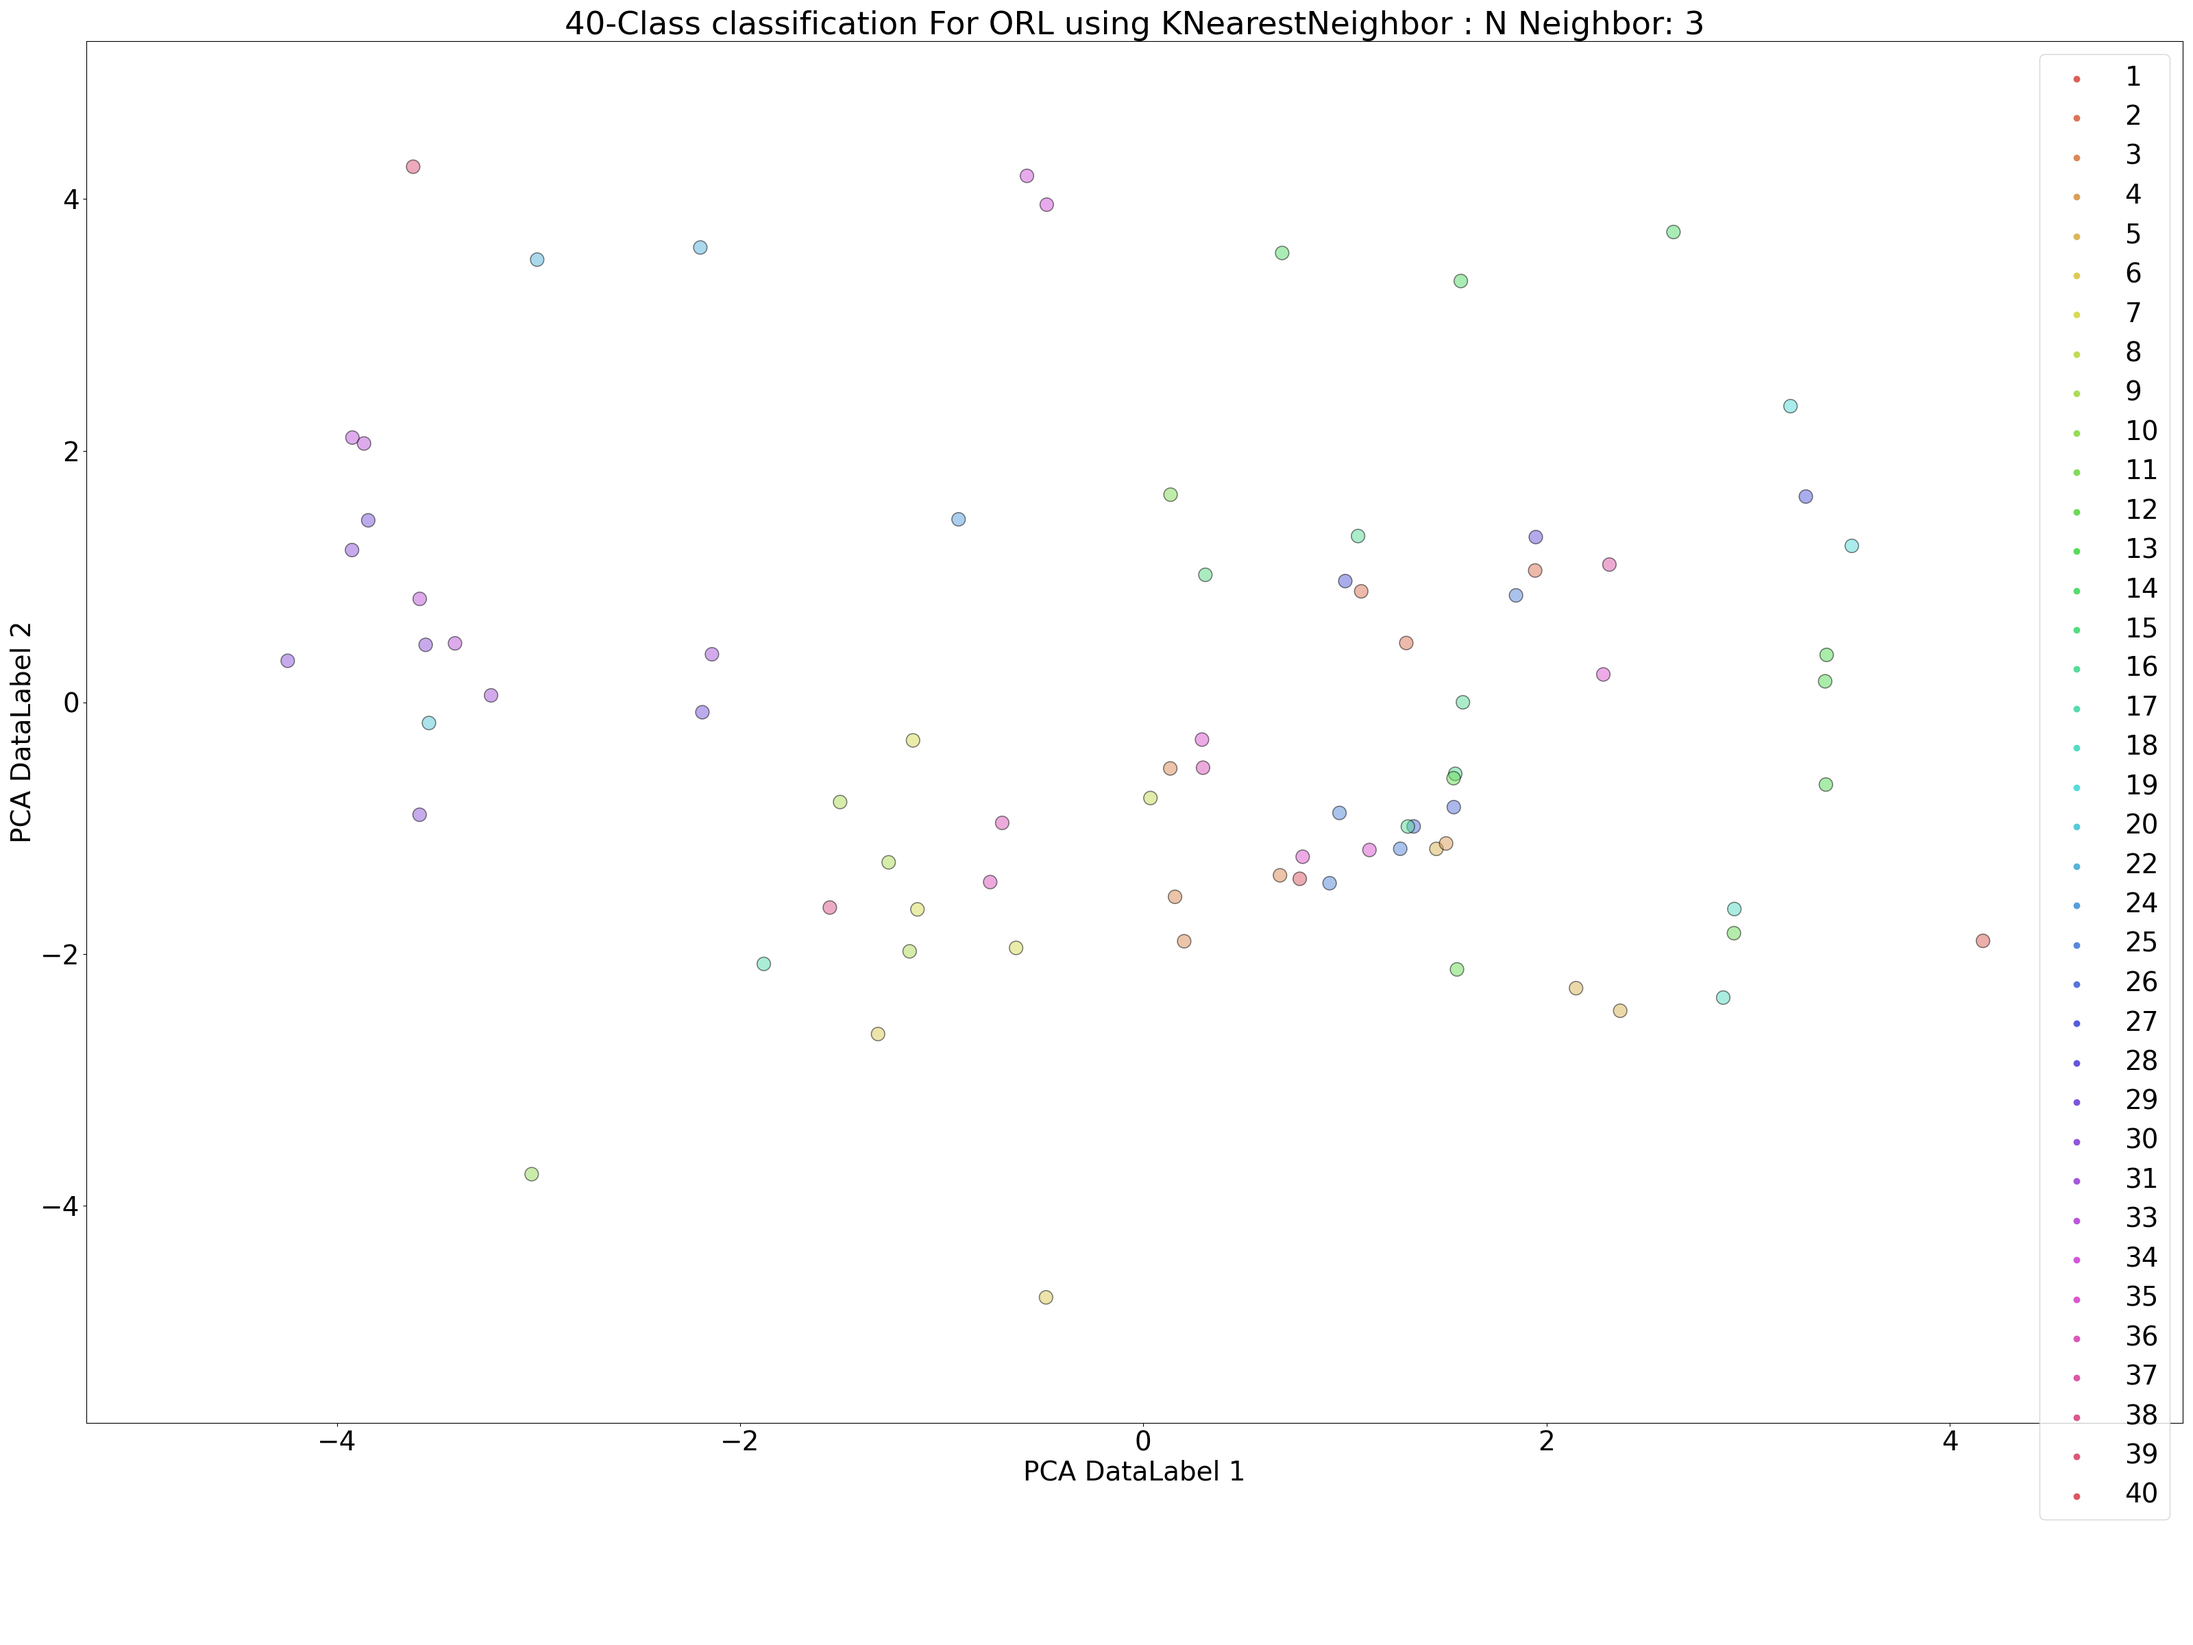
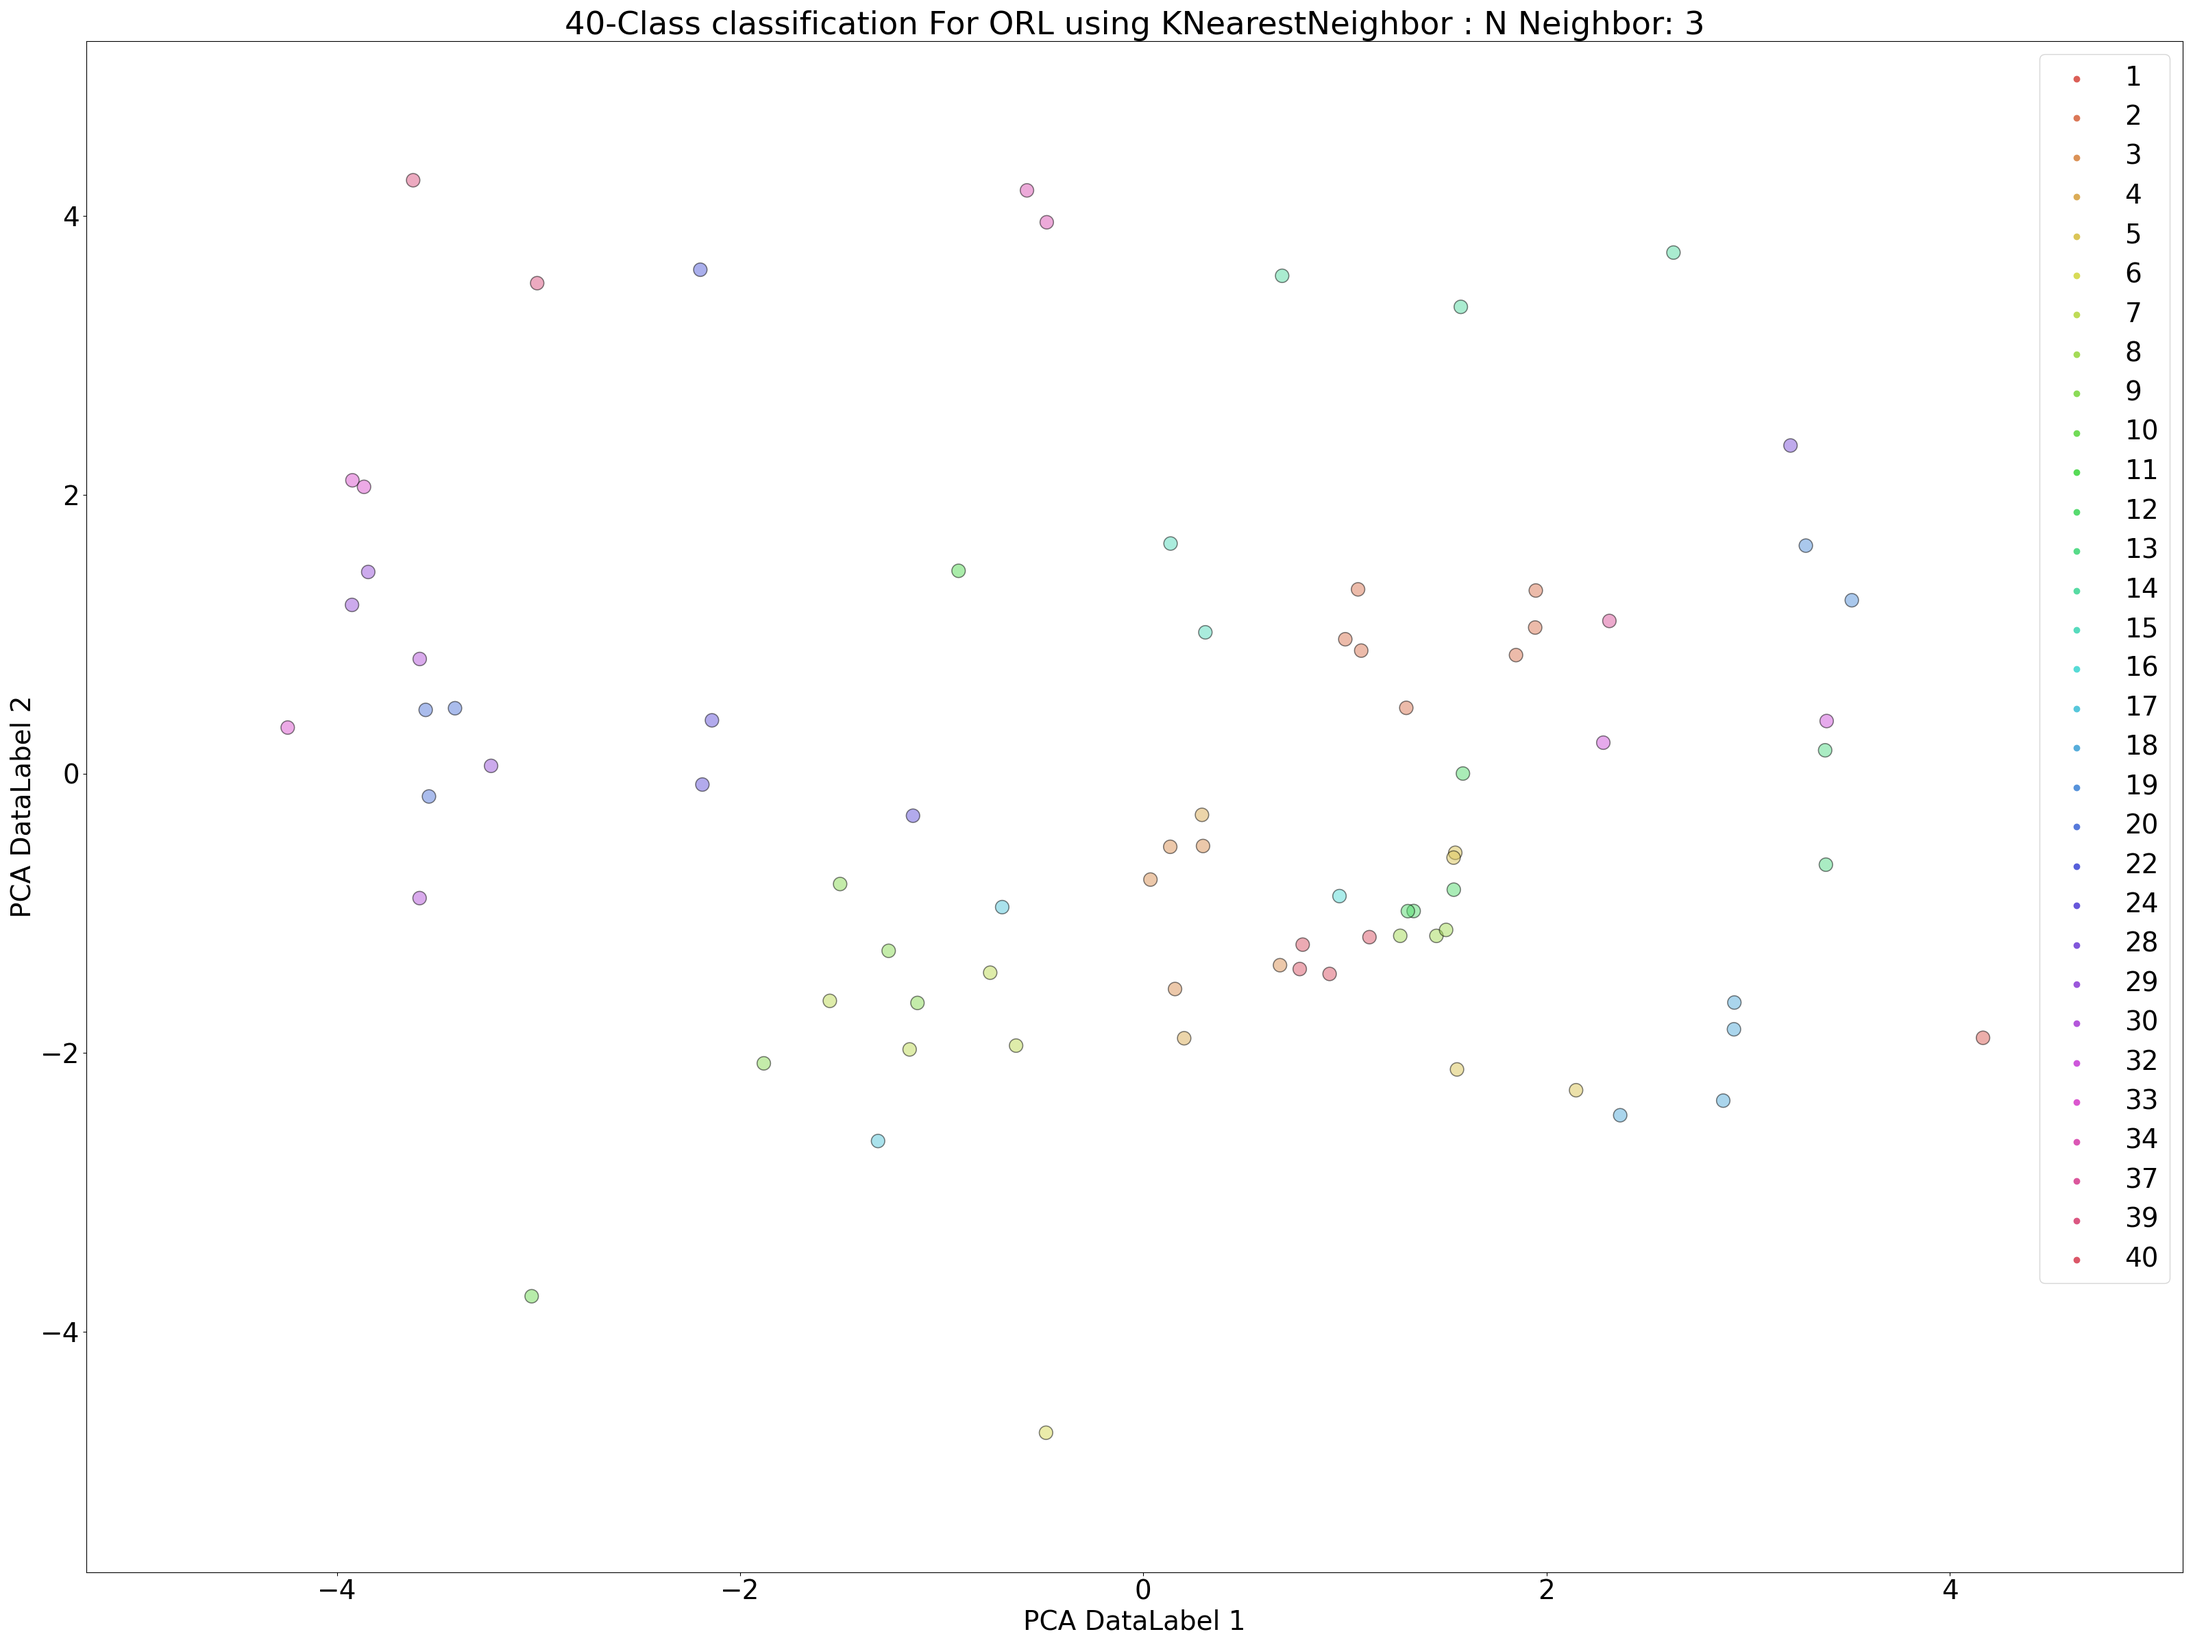
stupid error KEK

diff --git a/DataAnalysis/MiniProject/CodeFiles/project_perceptron_backpropagation.py b/DataAnalysis/MiniProject/CodeFiles/project_perceptron_backpropagation.py
@@ -21,16 +21,16 @@ def perceptron_backpropagation_mnist(learning_rate, pca=False):
 
     PCA_string = "PCA" if pca else "No PCA"
 
+    pred = sgdc.predict(test_images)
+
     if pca:
         Hp = HelpP.HelpPlots()
-        Hp.plotScatterAndDecisionBoundaryOfClassifier(sgdc, test_images, test_labels, "MNIST", 10, "Perceptron_Backp",
+        Hp.plotScatterAndDecisionBoundaryOfClassifier(sgdc, test_images, pred, "MNIST", 10, "Perceptron_Backp",
                                                       hyper=str(learning_rate))
 
-    HelpP.plotConfusionMatrixFromEstimator(test_images, test_labels,
+    """HelpP.plotConfusionMatrixFromEstimator(test_images, test_labels,
                                            [int(i) for i in lbls_names], sgdc, "MNIST",
-                                           estimator_name, PCA_string, hyper="LR: " + str(learning_rate))
-
-    pred = sgdc.predict(test_images)
+                                           estimator_name, PCA_string, hyper="LR: " + str(learning_rate))"""
 
     # print(classification_report(test_labels, pred, target_names=lbls_names))
     return accuracy_score(test_labels, pred)
@@ -49,16 +49,16 @@ def perceptron_backpropagation_orl(learning_rate, pca=False):
 
     PCA_string = "PCA" if pca else "No PCA"
 
+    pred = sgdc.predict(test_data)
+
     if pca:
         Hp = HelpP.HelpPlots()
-        Hp.plotScatterAndDecisionBoundaryOfClassifier(sgdc, test_data, test_labels, "ORL", 40, "Perceptron_Backp",
+        Hp.plotScatterAndDecisionBoundaryOfClassifier(sgdc, test_data, pred, "ORL", 40, "Perceptron_Backp",
                                                       hyper=str(learning_rate))
 
     HelpP.plotConfusionMatrixFromEstimator(test_data, test_labels,
                                            [int(i) for i in lbls_names], sgdc, "ORL",
                                            estimator_name, PCA_string, hyper="LR: " + str(learning_rate))
-
-    pred = sgdc.predict(test_data)
 
     # print(classification_report(test_labels, pred, zero_division=0))
     return accuracy_score(test_labels, pred)

diff --git a/DataAnalysis/MiniProject/CodeFiles/project_perceptron_mse.py b/DataAnalysis/MiniProject/CodeFiles/project_perceptron_mse.py
@@ -21,16 +21,16 @@ def perceptron_mse_mnist(learning_rate, pca=False):
 
     PCA_string = "PCA" if pca else "No PCA"
 
+    pred = sgdc.predict(test_images)
+
     if pca:
         Hp = HelpP.HelpPlots()
-        Hp.plotScatterAndDecisionBoundaryOfClassifier(sgdc, test_images, test_labels, "MNIST", 10, "Perceptron MSE",
+        Hp.plotScatterAndDecisionBoundaryOfClassifier(sgdc, test_images, pred, "MNIST", 10, "Perceptron MSE",
                                                       hyper=str(learning_rate))
 
-    HelpP.plotConfusionMatrixFromEstimator(test_images, test_labels,
+    """HelpP.plotConfusionMatrixFromEstimator(test_images, test_labels,
                                            [int(i) for i in lbls_names], sgdc, "MNIST", estimator_name,
-                                           PCA_string, hyper="LR: " + str(learning_rate))
-
-    pred = sgdc.predict(test_images)
+                                           PCA_string, hyper="LR: " + str(learning_rate))"""
 
     # print(classification_report(test_labels, pred, target_names=lbls_names))
     return accuracy_score(test_labels, pred)
@@ -49,16 +49,17 @@ def perceptron_mse_orl(learning_rate, pca=False):
 
     PCA_string = "PCA" if pca else "No PCA"
 
+    pred = sgdc.predict(test_data)
+
     if pca:
         Hp = HelpP.HelpPlots()
-        Hp.plotScatterAndDecisionBoundaryOfClassifier(sgdc, test_data, test_labels, "ORL", 40, "Perceptron MSE",
+        Hp.plotScatterAndDecisionBoundaryOfClassifier(sgdc, test_data, pred, "ORL", 40, "Perceptron MSE",
                                                       hyper=str(learning_rate))
 
     HelpP.plotConfusionMatrixFromEstimator(test_data, test_labels,
                                            [int(i) for i in lbls_names], sgdc, "ORL",
                                            estimator_name, PCA_string, hyper="LR: " + str(learning_rate))
 
-    pred = sgdc.predict(test_data)
 
     # print(classification_report(test_labels, pred, zero_division=0))
     return accuracy_score(test_labels, pred)

diff --git a/DataAnalysis/MiniProject/CodeFiles/project_nearest_neighbor.py b/DataAnalysis/MiniProject/CodeFiles/project_nearest_neighbor.py
@@ -21,7 +21,7 @@ def nearest_neighbor_mnist(n_neighbors, pca=False):
 
     if pca:
         Hp = HelpP.HelpPlots()
-        Hp.plotScatterAndDecisionBoundaryOfClassifier(knn, test_images, test_labels, "MNIST", 10, "KNearestNeighbor",
+        Hp.plotScatterAndDecisionBoundaryOfClassifier(knn, test_images, pred, "MNIST", 10, "KNearestNeighbor",
                                                       "N Neighbor: " + str(n_neighbors))
 
     HelpP.plotConfusionMatrixFromEstimator(test_images, test_labels, [int(i) for i in lbls_names],
@@ -48,12 +48,12 @@ def nearest_neighbor_orl(n_neighbors, pca=False):
 
     if pca:
         Hp = HelpP.HelpPlots()
-        Hp.plotScatterAndDecisionBoundaryOfClassifier(knn, test_data, test_labels, "ORL", 40, "KNearestNeighbor",
+        Hp.plotScatterAndDecisionBoundaryOfClassifier(knn, test_data, pred, "ORL", 40, "KNearestNeighbor",
                                                       hyper="N Neighbor: " + str(n_neighbors))
 
-    HelpP.plotConfusionMatrixFromEstimator(test_data, test_labels, [int(i) for i in lbls_names],
+    """HelpP.plotConfusionMatrixFromEstimator(test_data, test_labels, [int(i) for i in lbls_names],
                                            knn, "ORL", estimator_name, PCA_string,
-                                           hyper="N Neighbor: " + str(n_neighbors))
+                                           hyper="N Neighbor: " + str(n_neighbors))"""
 
     # print(classification_report(test_labels, pred, zero_division=0))
     return accuracy_score(test_labels, pred)

diff --git a/DataAnalysis/MiniProject/CodeFiles/project_nearest_subclass_centroid.py b/DataAnalysis/MiniProject/CodeFiles/project_nearest_subclass_centroid.py
@@ -21,7 +21,7 @@ def nearest_subclass_centroid_mnist(number_subclasses, pca=False):
 
     if pca:
         Hp = HelpP.HelpPlots()
-        Hp.plotScatterAndDecisionBoundaryOfClassifier(nsc, test_images, test_labels, "MNIST", 10, "Subclass Centroid",
+        Hp.plotScatterAndDecisionBoundaryOfClassifier(nsc, test_images, pred, "MNIST", 10, "Subclass Centroid",
                                                       hyper=number_subclasses)
 
     HelpP.plotConfusionMatrixFromPreds(pred, test_labels, [int(i) for i in lbls_names], "MNIST",
@@ -49,12 +49,12 @@ def nearest_subclass_centroid_orl(number_subclasses, pca=False):
 
     if pca:
         Hp = HelpP.HelpPlots()
-        Hp.plotScatterAndDecisionBoundaryOfClassifier(nsc, test_data, test_labels, "ORL", 40, "SubclassCentroid",
+        Hp.plotScatterAndDecisionBoundaryOfClassifier(nsc, test_data, pred, "ORL", 40, "SubclassCentroid",
                                                       hyper=number_subclasses)
 
-    HelpP.plotConfusionMatrixFromPreds(pred, test_labels, lbls_names, "ORL",
+    """HelpP.plotConfusionMatrixFromPreds(pred, test_labels, lbls_names, "ORL",
                                        "Nearest Subclass Centroid", PCA_string,
-                                       hyper="Nr Subclasses: " + str(number_subclasses))
+                                       hyper="Nr Subclasses: " + str(number_subclasses))"""
 
     # print(classification_report(test_labels, pred, zero_division=0))
     return accuracy_score(test_labels, pred)

diff --git a/DataAnalysis/MiniProject/CodeFiles/odarunner.py b/DataAnalysis/MiniProject/CodeFiles/odarunner.py
@@ -223,9 +223,11 @@ def run_nearest_neighbor():
 
 
 if __name__ == '__main__':
-    #run_nearest_neighbor()
-    #run_class_centroid()
-    #run_subclass_centroid()
-    #run_perceptron_backpropagation()
-    run_perceptron_mse()
+    run_nearest_neighbor()
+    # run_subclass_centroid()
+    # run_perceptron_backpropagation()
+    # run_perceptron_mse()
+
+    # run_class_centroid()
+
 

diff --git a/DataAnalysis/MiniProject/CodeFiles/HelpFiles/HelpPlots.py b/DataAnalysis/MiniProject/CodeFiles/HelpFiles/HelpPlots.py
@@ -103,3 +103,5 @@ class HelpPlots:
         plt.ylabel("PCA DataLabel 2")
 
         plt.rcParams.update(plt.rcParamsDefault)
+        plt.plot()
+        plt.show()
